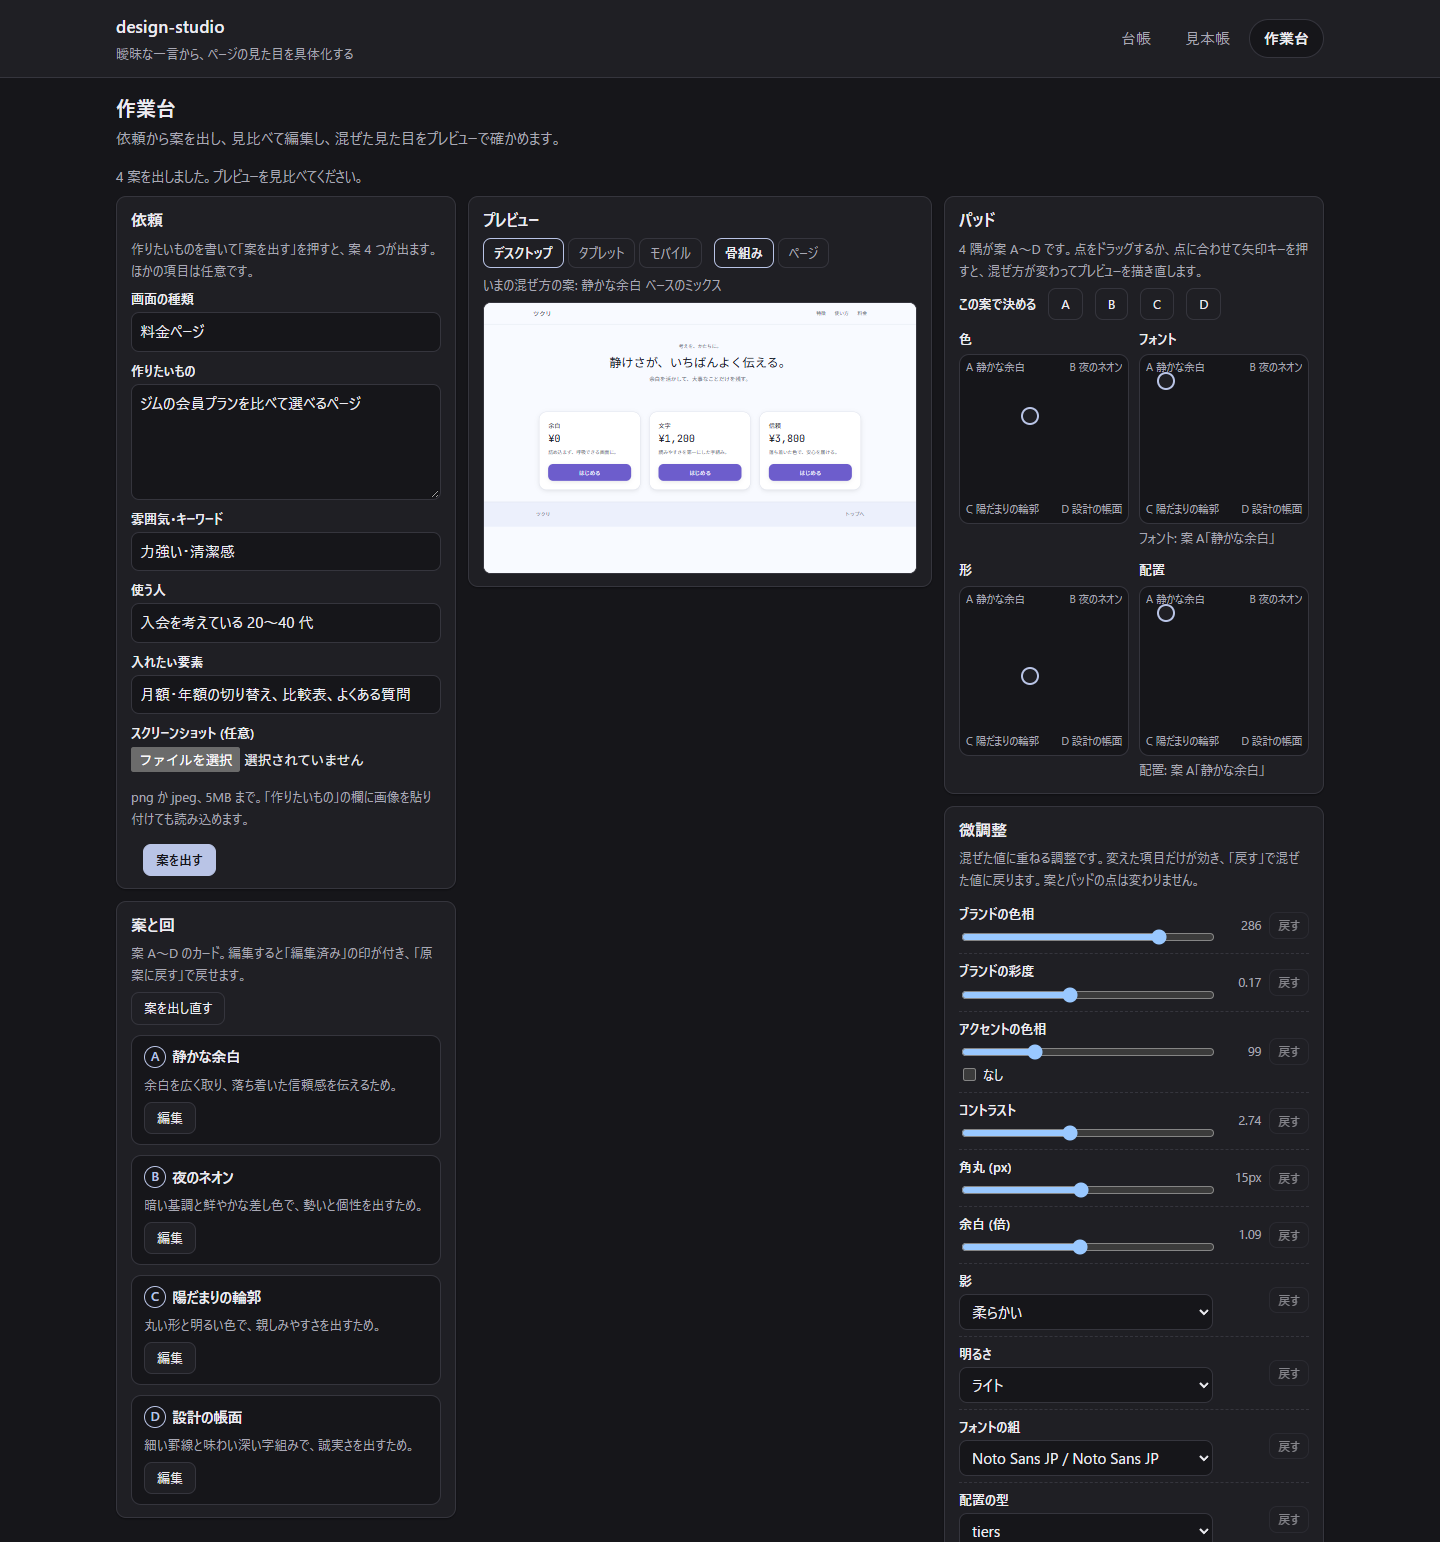
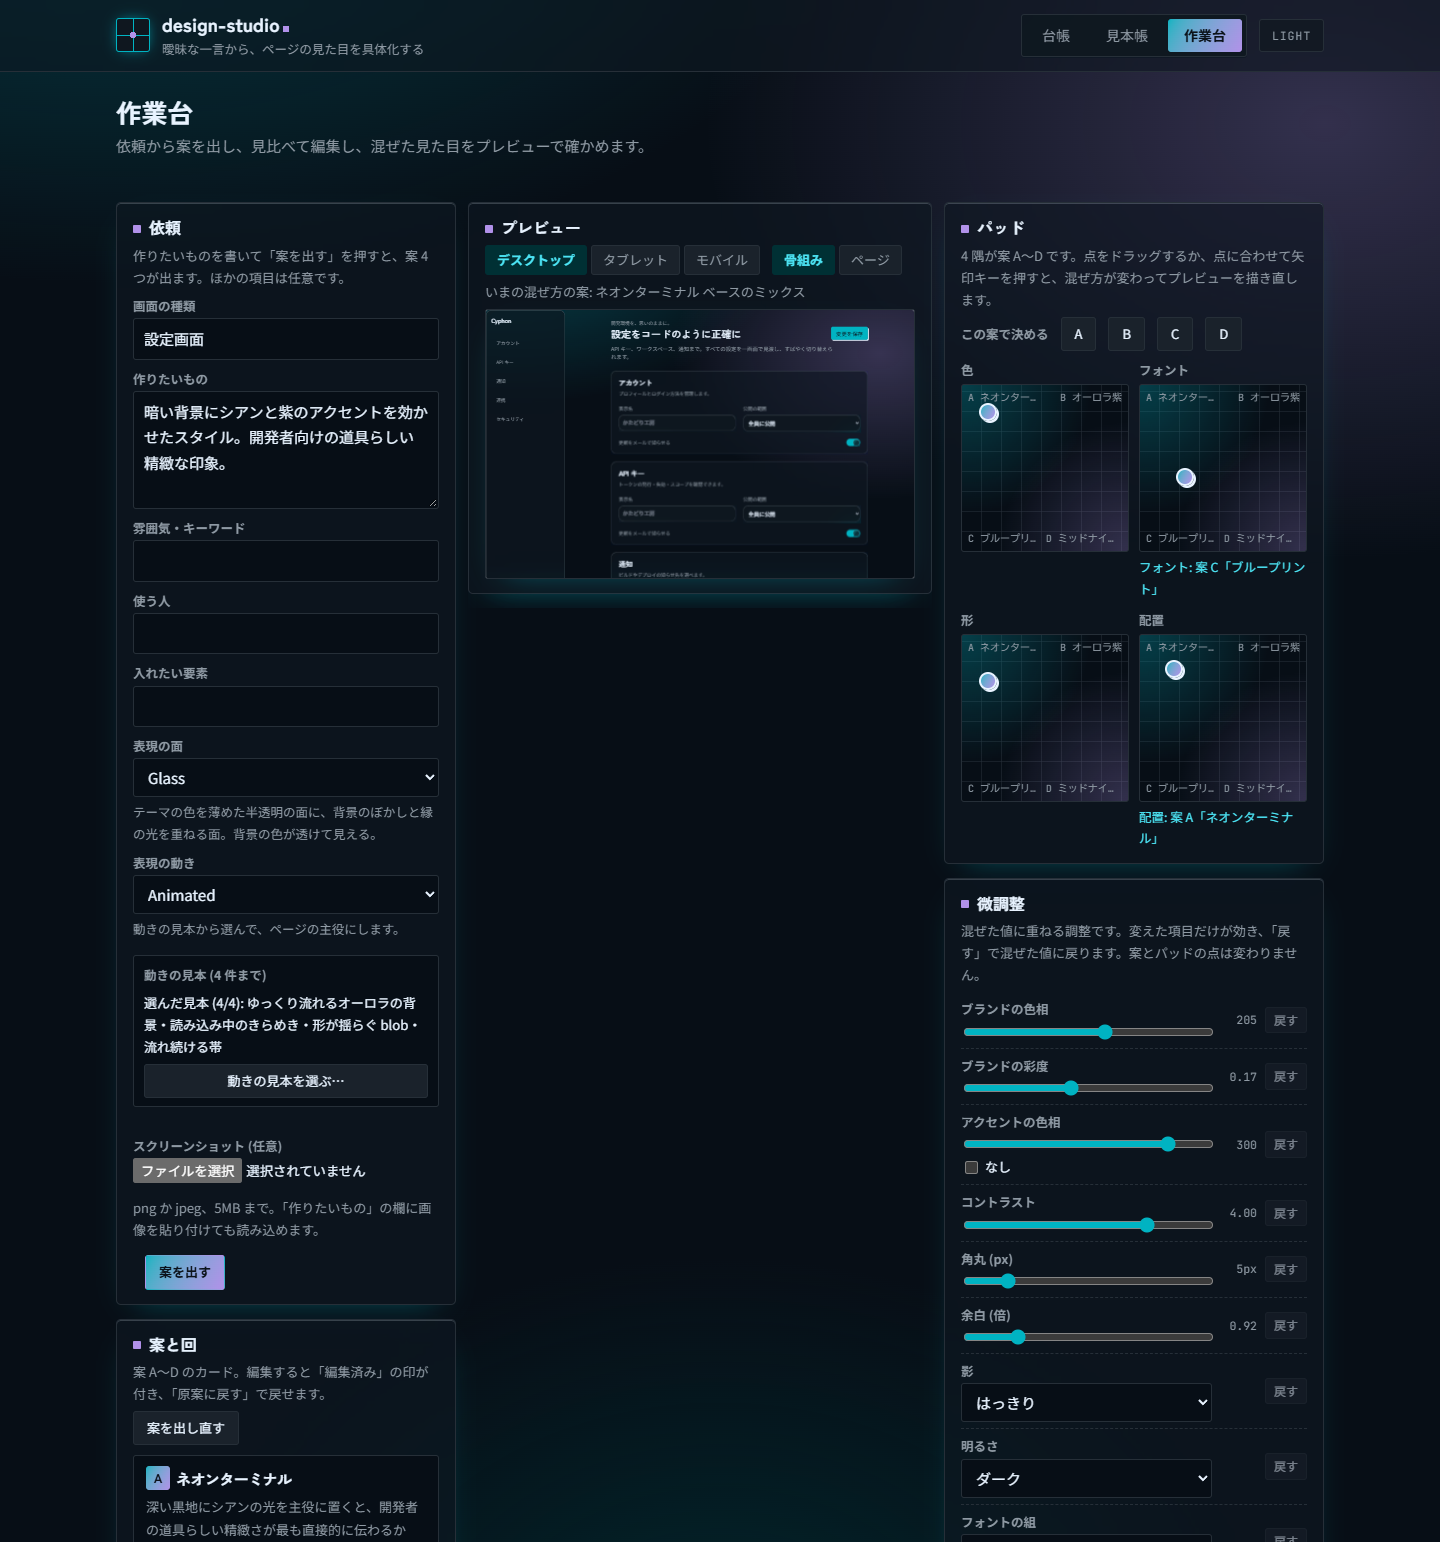
feat: アプリの見た目を作業台で作った「ネオンターミナル」と面 Glass にする
- 殻のトークンを、保存したプロジェクト「ネオンターミナル」を混ぜた値に (漆黒の地にシアン 205 と紫 300、Zen Kaku Gothic New + Noto Sans JP、角丸 5px)。ライトとダークの切り替えはそのまま
- 面 Glass: 方眼の背景をシアン・紫の光に替え、ヘッダー・タブ・カード・パネル・見本帳のスタイル名の列を半透明にしてぼかす。ぼかせないブラウザでは不透明に近い面にする
- 主役の色の帯をシアンから紫のグラデーションに、印の色を紫に、ずらした影を縁の光と淡い影に
- 動きの見本のダイアログは読みやすさのため不透明な面のまま
- README の台帳・見本帳・作業台のキャプチャを撮り直し、作業台の説明に表現の選択を足す (生成ページの中の名前・メールは仮の値に置き換えて撮影)

Changed region(s): [[0.0, 0.0, 1.0, 0.9961], [0.875, 0.9961, 0.9062, 1.0], [0.875, 0.9339, 0.9062, 0.965]]

diff --git a/app/index.html b/app/index.html
@@ -17,45 +17,47 @@
     <link rel="preconnect" href="https://fonts.gstatic.com" crossorigin />
     <link
       rel="stylesheet"
-      href="https://fonts.googleapis.com/css2?family=Murecho:wght@400;500;700&family=JetBrains+Mono:wght@400;500&display=swap"
+      href="https://fonts.googleapis.com/css2?family=Zen+Kaku+Gothic+New:wght@500;700&family=Noto+Sans+JP:wght@400;500;700&family=JetBrains+Mono:wght@400;500&display=swap"
     />
     <style>
-      /* 見た目は見本帳のスタイル「ブループリント」(data/styles.json の blueprint) のトークン。
-         紺の方眼にシアンの線とオレンジの印を置く。ダークを基本にし、ライトは data-mode="light" か、
-         選んでいないときの OS の設定で使う */
+      /* 見た目は作業台で作ったプロジェクト「ネオンターミナル」(漆黒の地にシアンが走る、鋭く精緻なコンソール) の
+         トークンと、面 Glass (data/surfaces.json の glass)。背景にシアンと紫の光を敷き、ヘッダー・カード・
+         パネルを半透明にしてぼかす。ダークを基本にし、ライトは data-mode="light" か、選んでいないときの OS の設定で使う */
       :root {
         color-scheme: dark;
-        --background: oklch(0.16 0.05 250);
-        --foreground: oklch(0.98 0.01 250);
-        --card: oklch(0.2 0.05 250);
-        --surface: oklch(0.25 0.05 250);
-        --muted-foreground: oklch(0.7 0.05 250);
-        --border: oklch(0.3 0.05 250);
-        --primary: oklch(0.7 0.133 225);
-        --primary-foreground: oklch(0.18 0.05 250);
-        --marker: oklch(0.72 0.106 55);
-        --ring: oklch(0.62 0.118 225);
-        --accent-soft: oklch(0.28 0.042 225);
-        --accent-soft-fg: oklch(0.85 0.1 225);
+        --background: oklch(0.16 0.02 249.9);
+        --foreground: oklch(0.96 0.02 249.9);
+        --card: oklch(0.2 0.02 249.9);
+        --surface: oklch(0.25 0.02 249.9);
+        --muted-foreground: oklch(0.68 0.02 249.9);
+        --border: oklch(0.3 0.02 249.9);
+        --primary: oklch(0.7 0.12 205);
+        --primary-foreground: oklch(0.18 0.02 249.9);
+        --marker: oklch(0.72 0.128 300);
+        --ring: oklch(0.62 0.106 205);
+        --accent-soft: oklch(0.28 0.049 205);
+        --accent-soft-fg: oklch(0.85 0.127 205);
         --warning: oklch(0.75 0.136 75);
         --destructive: oklch(0.62 0.2 25);
-        --grid-minor: oklch(0.7 0.133 225 / 5%);
-        --grid-major: oklch(0.7 0.133 225 / 11%);
-        --glow-a: oklch(0.7 0.133 225 / 12%);
-        --glow-b: oklch(0.72 0.106 55 / 9%);
-        --header-bg: oklch(0.16 0.05 250 / 82%);
-        --shadow: 3px 3px 0 0 oklch(0.98 0.01 250 / 12%);
-        --shadow-pop: 3px 3px 0 0 var(--marker);
-        --gradient: linear-gradient(var(--primary), var(--primary));
-        --radius: 4px;
+        /* 面 Glass: 背景の光の濃さ、半透明の面の濃さ、縁の光 */
+        --glow-a: color-mix(in oklab, var(--primary) 30%, transparent);
+        --glow-b: color-mix(in oklab, var(--marker) 26%, transparent);
+        --glow-c: color-mix(in oklab, var(--accent-soft) 70%, transparent);
+        --glass: 66%;
+        --glass-highlight: inset 0 1px 0 color-mix(in oklab, var(--foreground) 20%, transparent);
+        --header-bg: color-mix(in oklab, var(--card) 62%, transparent);
+        --shadow: var(--glass-highlight), 0 12px 32px -20px color-mix(in oklab, var(--primary) 55%, transparent);
+        --shadow-pop: 0 0 0 1px var(--marker), 0 0 18px -4px var(--marker);
+        --gradient: linear-gradient(120deg, var(--primary), var(--marker));
+        --radius: 5px;
         --radius-sm: 3px;
-        --font-heading: "Murecho", system-ui, "Hiragino Sans", "Noto Sans JP", sans-serif;
-        --font-body: "Murecho", system-ui, "Hiragino Sans", "Noto Sans JP", sans-serif;
+        --font-heading: "Zen Kaku Gothic New", system-ui, "Hiragino Sans", "Noto Sans JP", sans-serif;
+        --font-body: "Noto Sans JP", system-ui, "Hiragino Sans", sans-serif;
         --font-mono: "JetBrains Mono", ui-monospace, SFMono-Regular, Consolas, monospace;
 
-        /* 画面の JS (作業台など) が使う名前。上のトークンに結び付ける */
+        /* 画面の JS (作業台など) が使う名前。上のトークンに結び付ける。パネルは Glass の半透明の面 */
         --bg: var(--background);
-        --panel: var(--card);
+        --panel: color-mix(in oklab, var(--card) var(--glass), transparent);
         --fg: var(--foreground);
         --muted: var(--muted-foreground);
         --line: var(--border);
@@ -69,51 +71,66 @@
 
       :root[data-mode="light"] {
         color-scheme: light;
-        --background: oklch(0.985 0.007 250);
-        --foreground: oklch(0.16 0.05 250);
-        --card: oklch(1 0 250);
-        --surface: oklch(0.955 0.022 250);
-        --muted-foreground: oklch(0.44 0.05 250);
-        --border: oklch(0.9 0.05 250);
-        --primary: oklch(0.55 0.105 225);
-        --primary-foreground: oklch(0.985 0.007 250);
-        --marker: oklch(0.6 0.112 55);
-        --accent-soft: oklch(0.95 0.032 225);
-        --accent-soft-fg: oklch(0.35 0.067 225);
+        --background: oklch(0.985 0.007 249.9);
+        --foreground: oklch(0.2 0.02 249.9);
+        --card: oklch(1 0 249.9);
+        --surface: oklch(0.955 0.02 249.9);
+        --muted-foreground: oklch(0.48 0.02 249.9);
+        --border: oklch(0.9 0.02 249.9);
+        --primary: oklch(0.55 0.094 205);
+        --primary-foreground: oklch(0.995 0.003 249.9);
+        --marker: oklch(0.6 0.136 300);
+        --accent-soft: oklch(0.95 0.051 205);
+        --accent-soft-fg: oklch(0.35 0.061 205);
         --warning: oklch(0.55 0.13 75);
         --destructive: oklch(0.55 0.198 25);
-        --grid-minor: oklch(0.55 0.105 225 / 6%);
-        --grid-major: oklch(0.55 0.105 225 / 12%);
-        --glow-a: oklch(0.55 0.105 225 / 10%);
-        --glow-b: oklch(0.6 0.112 55 / 8%);
-        --header-bg: oklch(0.985 0.007 250 / 82%);
-        --shadow: 3px 3px 0 0 oklch(0.16 0.05 250 / 10%);
+        --glow-a: color-mix(in oklab, var(--primary) 18%, transparent);
+        --glow-b: color-mix(in oklab, var(--marker) 16%, transparent);
+        --glass: 72%;
+        --glass-highlight: inset 0 1px 0 color-mix(in oklab, var(--card) 80%, transparent);
+        --shadow: var(--glass-highlight), 0 12px 30px -22px color-mix(in oklab, var(--foreground) 40%, transparent);
         --notice-bg: color-mix(in oklch, var(--warning) 12%, var(--card));
       }
 
       @media (prefers-color-scheme: light) {
         :root:not([data-mode]) {
           color-scheme: light;
-          --background: oklch(0.985 0.007 250);
-          --foreground: oklch(0.16 0.05 250);
-          --card: oklch(1 0 250);
-          --surface: oklch(0.955 0.022 250);
-          --muted-foreground: oklch(0.44 0.05 250);
-          --border: oklch(0.9 0.05 250);
-          --primary: oklch(0.55 0.105 225);
-          --primary-foreground: oklch(0.985 0.007 250);
-          --marker: oklch(0.6 0.112 55);
-          --accent-soft: oklch(0.95 0.032 225);
-          --accent-soft-fg: oklch(0.35 0.067 225);
+          --background: oklch(0.985 0.007 249.9);
+          --foreground: oklch(0.2 0.02 249.9);
+          --card: oklch(1 0 249.9);
+          --surface: oklch(0.955 0.02 249.9);
+          --muted-foreground: oklch(0.48 0.02 249.9);
+          --border: oklch(0.9 0.02 249.9);
+          --primary: oklch(0.55 0.094 205);
+          --primary-foreground: oklch(0.995 0.003 249.9);
+          --marker: oklch(0.6 0.136 300);
+          --accent-soft: oklch(0.95 0.051 205);
+          --accent-soft-fg: oklch(0.35 0.061 205);
           --warning: oklch(0.55 0.13 75);
           --destructive: oklch(0.55 0.198 25);
-          --grid-minor: oklch(0.55 0.105 225 / 6%);
-          --grid-major: oklch(0.55 0.105 225 / 12%);
-          --glow-a: oklch(0.55 0.105 225 / 10%);
-          --glow-b: oklch(0.6 0.112 55 / 8%);
-          --header-bg: oklch(0.985 0.007 250 / 82%);
-          --shadow: 3px 3px 0 0 oklch(0.16 0.05 250 / 10%);
+          --glow-a: color-mix(in oklab, var(--primary) 18%, transparent);
+          --glow-b: color-mix(in oklab, var(--marker) 16%, transparent);
+          --glass: 72%;
+          --glass-highlight: inset 0 1px 0 color-mix(in oklab, var(--card) 80%, transparent);
+          --shadow: var(--glass-highlight), 0 12px 30px -22px color-mix(in oklab, var(--foreground) 40%, transparent);
           --notice-bg: color-mix(in oklch, var(--warning) 12%, var(--card));
+        }
+      }
+
+      /* 面 Glass: ヘッダー・カード・パネルの背景をぼかす。ぼかせないブラウザでは不透明に近い面にする */
+      .app-header,
+      .tabs,
+      .card,
+      .overlay-panel,
+      .install,
+      .wb-section {
+        backdrop-filter: blur(12px) saturate(140%);
+      }
+
+      @supports not (backdrop-filter: blur(1px)) {
+        :root {
+          --glass: 94%;
+          --header-bg: color-mix(in oklab, var(--card) 94%, var(--background));
         }
       }
 
@@ -124,13 +141,11 @@
       body {
         margin: 0;
         min-height: 100vh;
-        /* 方眼: 8px の細い線と 40px の太い線 */
+        /* 面 Glass: 背景にシアン・紫・淡いシアンの光を敷き、半透明の面の向こうに透かして見せる */
         background:
-          linear-gradient(var(--grid-major) 1px, transparent 1px) 0 0 / 40px 40px,
-          linear-gradient(90deg, var(--grid-major) 1px, transparent 1px) 0 0 / 40px 40px,
-          linear-gradient(var(--grid-minor) 1px, transparent 1px) 0 0 / 8px 8px,
-          linear-gradient(90deg, var(--grid-minor) 1px, transparent 1px) 0 0 / 8px 8px,
-          var(--background);
+          radial-gradient(70rem 42rem at 8% -12%, var(--glow-a), transparent 70%),
+          radial-gradient(54rem 38rem at 92% 8%, var(--glow-b), transparent 72%),
+          radial-gradient(46rem 34rem at 50% 108%, var(--glow-c), transparent 75%), var(--background);
         background-attachment: fixed;
         color: var(--fg);
         font-family: var(--font-body);
@@ -204,14 +219,13 @@
         height: 34px;
         border: 1.5px solid var(--primary);
         border-radius: var(--radius-sm);
-        /* 製図の印: 中心の十字と 4 等分の方眼、オレンジの点 */
+        /* 照準の印: 中心の十字と紫の点。縁をシアンで光らせる */
         background:
           radial-gradient(circle at 50% 50%, var(--marker) 0 3px, transparent 3.5px),
           linear-gradient(var(--primary), var(--primary)) 50% 50% / 1px 100% no-repeat,
           linear-gradient(var(--primary), var(--primary)) 50% 50% / 100% 1px no-repeat,
-          linear-gradient(var(--grid-major) 1px, transparent 1px) 0 0 / 8px 8px,
-          linear-gradient(90deg, var(--grid-major) 1px, transparent 1px) 0 0 / 8px 8px,
           var(--card);
+        box-shadow: 0 0 14px -4px var(--primary);
       }
 
       .app-name {
@@ -616,8 +630,10 @@
         position: sticky;
         left: 0;
         z-index: 1;
-        padding: 10px 12px 10px 0;
-        background: var(--bg);
+        padding: 10px 12px;
+        /* 横に流した見本の上に重なるので、Glass の面でぼかして読めるようにする */
+        background: var(--panel);
+        backdrop-filter: blur(12px) saturate(140%);
         border-radius: var(--radius-sm);
       }
 

diff --git a/app/ui-workbench-treatment.js b/app/ui-workbench-treatment.js
@@ -14,7 +14,7 @@ const TREATMENT_CSS = `
 .wb-treatment-desc { margin: 2px 0 0; font-size: 12.5px; color: var(--muted); }
 .wb-motion-samples { margin-top: 8px; display: grid; gap: 6px; }
 .wb-motion-summary { margin: 0; font-size: 13px; overflow-wrap: anywhere; }
-.wb-motion-dialog { width: min(980px, calc(100vw - 32px)); max-height: calc(100vh - 32px); padding: 0; border: 1px solid var(--line); border-radius: var(--radius); background: var(--panel); color: var(--fg); }
+.wb-motion-dialog { width: min(980px, calc(100vw - 32px)); max-height: calc(100vh - 32px); padding: 0; border: 1px solid var(--line); border-radius: var(--radius); background: var(--card); color: var(--fg); }
 .wb-motion-dialog::backdrop { background: color-mix(in oklch, var(--bg) 70%, transparent); }
 .wb-motion-dialog[open] { display: grid; grid-template-rows: auto minmax(0, 1fr) auto; }
 .wb-motion-head, .wb-motion-foot { display: flex; flex-wrap: wrap; gap: 8px 12px; align-items: center; justify-content: space-between; padding: 12px 16px; }

diff --git a/README.md b/README.md
@@ -23,9 +23,9 @@
 
 ![見本帳の画面。スタイル別に LP・ダッシュボード・ブログ記事の見本が並ぶ](docs/images/gallery.png)
 
-**作業台**: 依頼から方向性の案を 4 つ出し、骨組みで見比べて選ぶか、軸ごとのパッドで混ぜます。
+**作業台**: 依頼から方向性の案を 4 つ出し、骨組みで見比べて選ぶか、軸ごとのパッドで混ぜます。依頼のフォームでは、表現 (面と動き) も選べます。
 
-![作業台の画面。左に依頼のフォームと案 A〜D、中央に料金ページの骨組みのプレビュー、右に 4 軸のパッドと微調整が並ぶ](docs/images/workbench-directions.png)
+![作業台の画面。左に依頼のフォーム (表現の面 Glass・動き Animated と選んだ動きの見本) と案 A〜D、中央に設定画面の骨組みのプレビュー、右に 4 軸のパッドと微調整が並ぶ](docs/images/workbench-directions.png)
 
 **作業台 (ページを作る)**: 決めた方向性で LLM が 1 ファイルのページを作り、別タブで開く・ダウンロードできます。
 
